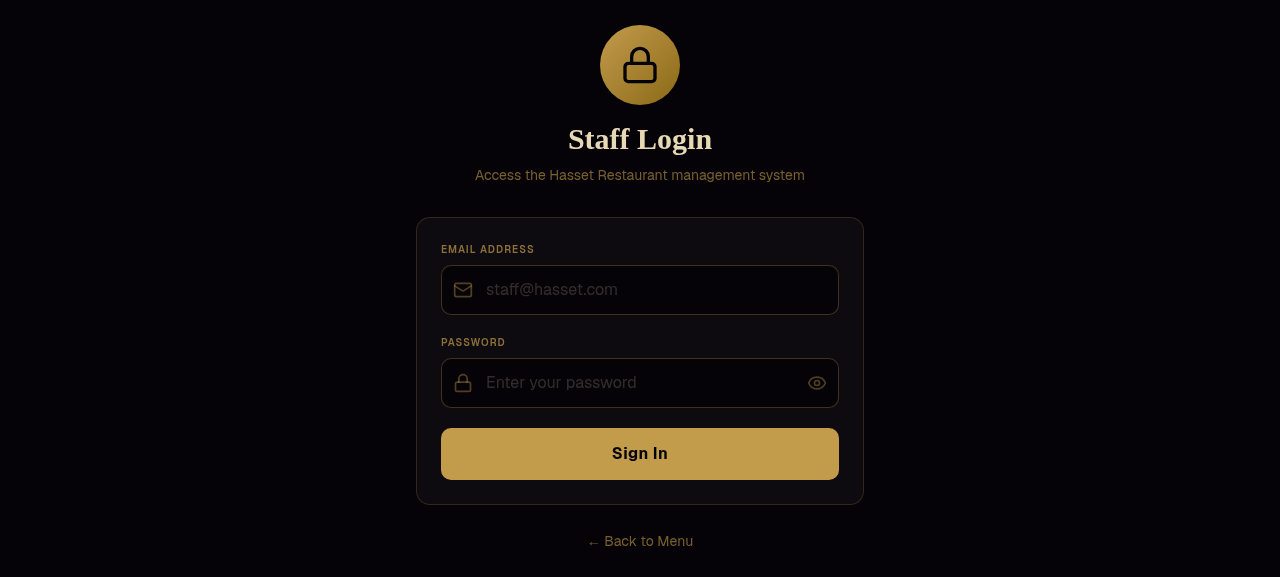
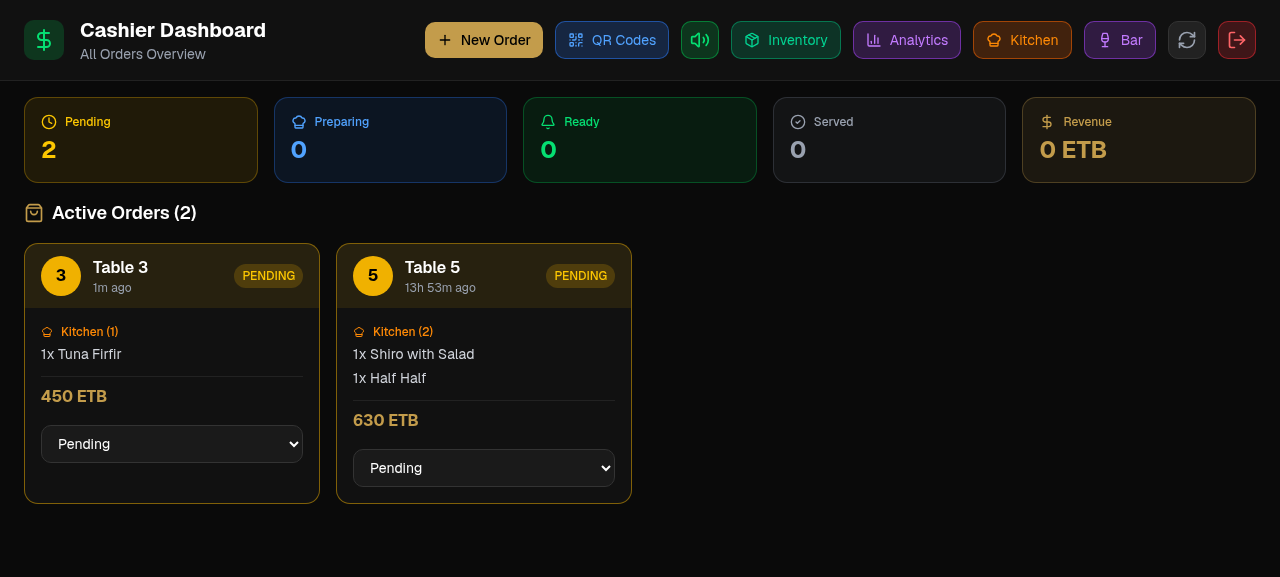
feat: add new images and temporarily disable protected routes for preview

diff --git a/middleware.ts b/middleware.ts
@@ -2,9 +2,9 @@ import { updateSession } from '@/lib/supabase/middleware'
 import { type NextRequest, NextResponse } from 'next/server'
 
 // Routes that require authentication
-// Bar and Kitchen are open access - staff can use cashier login if needed
-// Inventory, Analytics and Owner dashboard require admin access
-const protectedRoutes = ['/admin', '/menu-management', '/cashier', '/inventory', '/analytics', '/owner']
+// TEMPORARILY DISABLED FOR PREVIEW - uncomment for production:
+// const protectedRoutes = ['/admin', '/menu-management', '/cashier', '/inventory', '/analytics', '/owner']
+const protectedRoutes: string[] = []
 
 export async function middleware(request: NextRequest) {
   const response = await updateSession(request)
